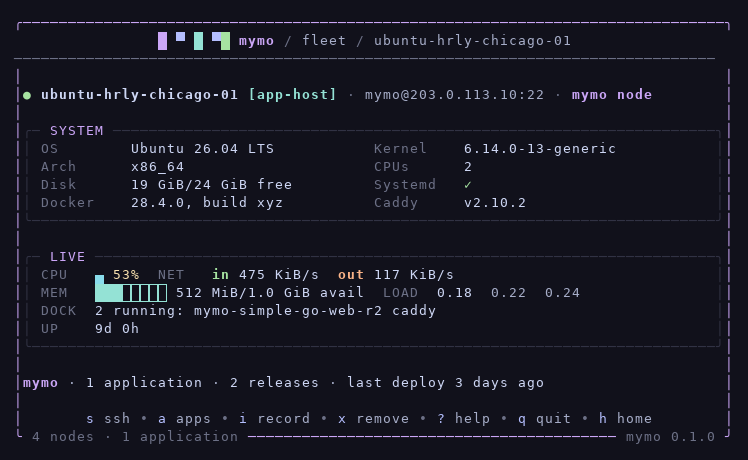
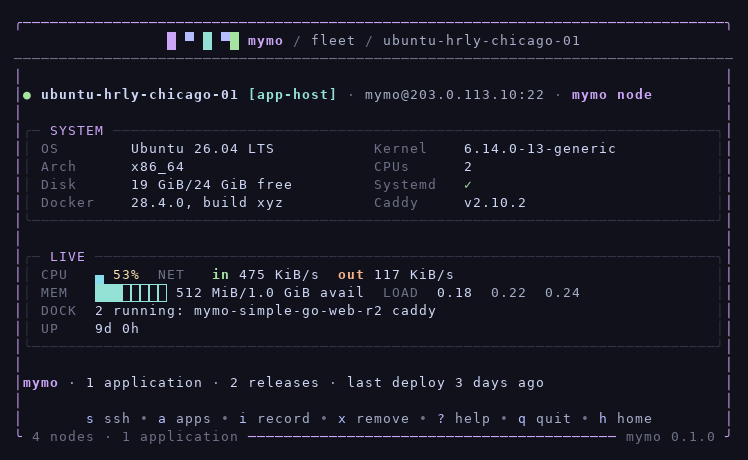
fix(tui): the header band shares the frame's geometry
The divider under the sticky header was drawn on the content
band's width but from the frame's left edge: it poked past where
the corner sits and fell two columns short of the right one. And
the header itself centered on that same shifted axis, one column
left of everything below it. Both now run on the frame's full
width — the header centered on the top border's axis, the divider
a plain rail edge to edge, exactly like the borders above and
below it. The band is the one place the frame's side columns are
open; its rows own the full width or none.

Pinned by geometry: a test renders a headered page and holds
every row — borders, header, divider, body, statusbar — to the
frame's one width, with the divider asserted as a plain full rail.
The readme screenshots are repainted to carry the fix.

Changed region(s): [[0.492, 0.0609, 0.7687, 0.1217], [0.2152, 0.0609, 0.4612, 0.1217]]

diff --git a/internal/tui/app.go b/internal/tui/app.go
@@ -1168,9 +1168,16 @@ func (m Model) frame(page, footer string) string {
 	b.WriteString(m.topBorder(innerW))
 	b.WriteString("\n")
 	if m.showHeader() {
-		b.WriteString(m.headerRow(innerW))
+		// the header centers on the frame's full width, the same axis
+		// as the borders and the divider — not on the content band
+		// one column left of it
+		b.WriteString(m.headerRow(max(1, m.width)))
 		b.WriteString("\n")
-		b.WriteString(dividerStyle.Render(strings.Repeat("─", innerW)))
+		// the divider runs edge to edge like the borders above and
+		// below it — the header band is the one place the frame's
+		// side columns are open, so the divider owns the full width
+		// or it pokes past one corner and falls short of the other
+		b.WriteString(dividerStyle.Render(strings.Repeat("─", max(1, m.width))))
 		b.WriteString("\n")
 	}
 	for _, line := range fitLines(centerBlock(page, innerW), innerW, pageH) {
@@ -1194,8 +1201,9 @@ func (m Model) topBorder(w int) string {
 	return frameStyle.Render("╭" + strings.Repeat("─", w) + "╮")
 }
 
-// headerRow renders the sticky header: mymo's icon and brand with the
-// breadcrumb of the current screen, centered like the stage below it.
+// headerRow renders the sticky header: mymo's icon and brand with
+// the breadcrumb of the current screen, centered on the frame's own
+// axis — the full width the top border and the divider below share.
 // The icon sits one cell in from the frame so its blocks never touch
 // the border.
 func (m Model) headerRow(w int) string {

diff --git a/internal/tui/tui_test.go b/internal/tui/tui_test.go
@@ -11,6 +11,7 @@ import (
 	"unicode/utf8"
 
 	tea "charm.land/bubbletea/v2"
+	"charm.land/lipgloss/v2"
 
 	"github.com/elvonpiko/mymo/internal/domain"
 	"github.com/elvonpiko/mymo/internal/facts"
@@ -679,5 +680,29 @@ func TestFleetRowColumnsBreathe(t *testing.T) {
 	}
 	if !strings.Contains(out, "[observe]") {
 		t.Errorf("the mode badge lost its place:\n%s", out)
+	}
+}
+
+// TestHeaderDividerRunsEdgeToEdge pins the header band's geometry:
+// every row the frame emits shares one width, and the divider under
+// the header is a plain rail that meets both frame edges exactly —
+// never poking past a corner, never falling short of one.
+func TestHeaderDividerRunsEdgeToEdge(t *testing.T) {
+	s := readyStore(t)
+	seedNode(t, s, "web-1")
+	m := press(t, New(s), "n")
+
+	lines := strings.Split(view(m), "\n")
+	if len(lines) != 24 {
+		t.Fatalf("the page is %d rows, want 24 at the floor", len(lines))
+	}
+	for i, ln := range lines {
+		if w := lipgloss.Width(ln); w != 80 {
+			t.Errorf("row %d is %d columns wide, want the frame's 80:\n%q", i, w, ln)
+		}
+	}
+	div := ansiStrip(lines[2])
+	if div != strings.Repeat("─", 80) {
+		t.Errorf("the divider is not a plain full-width rail:\n%q", div)
 	}
 }
